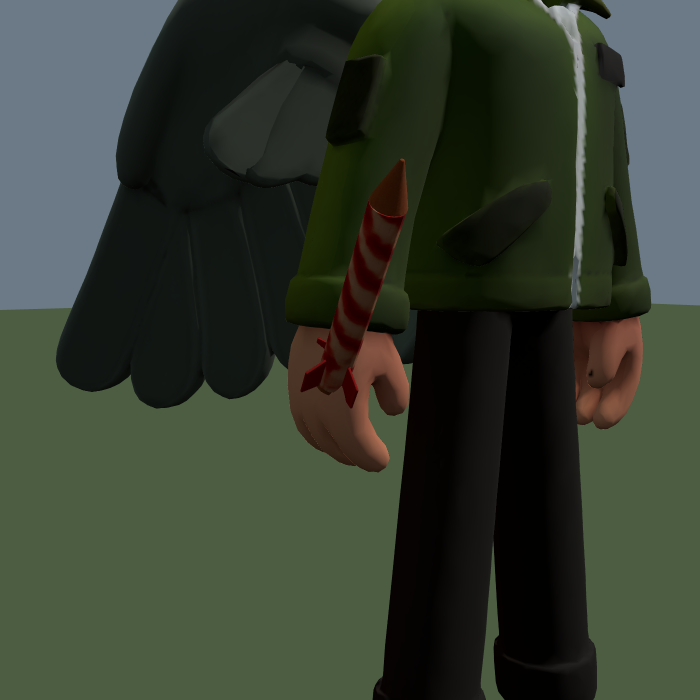
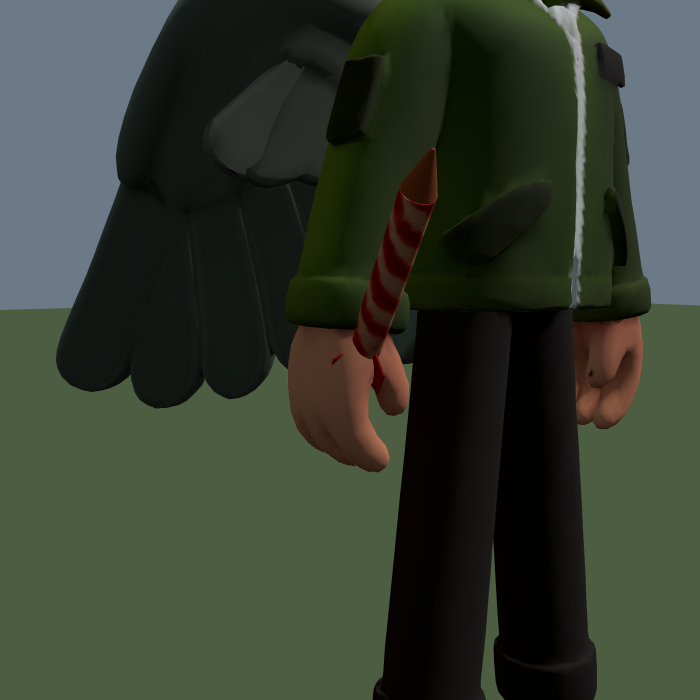
Measure the grip instead of looking at it
Four goes at this were "that reads as held" from a picture, and four were
wrong. tools/model.html measures it now: the closest any vertex of the fist
comes to the rocket's own axis, against the radius of the tube. Inside the
radius the hand is within the tube and it is gripped; outside it there is
daylight, which is what "flying" looks like.

That measurement is what found the fault. At the last setting the nearest fist
vertex was 11 mm from the axis against a 47 mm radius - the tube was buried
*inside* the fist, so every part of it that touched was hidden and the only
part you could see was the stretch sticking out past the knuckles, floating
beside a closed hand. Moving it further out made that worse, not better.

Three settings were rendered and measured together. The grip goes back onto the
axis of the hand and 30 per cent up the fist, at 9 mm: the tube comes out of
the top of the fist between the thumb and the fingers, with the hand visibly
around it.

Claude-Session: https://claude.ai/code/session_01AbPj1ecgWZX5NRERgq23EA

Changed region(s): [[0.42, 0.21, 0.63, 0.6]]

diff --git a/tools/model.html b/tools/model.html
@@ -255,7 +255,56 @@ const POSES = {
   'stand-back': { player: {}, camera: [0, 1.4, 3.6], look: [0, 1.0, 0] },
 };
 
-window.__fist = () => ({ fist: avatar.scanFist ?? null, scale: avatar.rocket?.scale.x ?? null });
+/*
+  Does the firework actually touch the hand?
+
+  Looking at a picture and deciding "that reads as held" has now been wrong
+  four times in a row. This measures it: the closest any vertex of the fist
+  comes to the rocket's own axis, against the radius of the tube. Less than the
+  radius and the hand is inside the tube - it is gripped. More, and there is
+  daylight between them, which is what "flying" looks like.
+*/
+window.__grip = () => {
+  const skin = avatar.scanSkins?.[0];
+  if (!skin || !avatar.rocket) return null;
+  const arm = avatar.scanBones?.armR;
+  const armIndex = (avatar.scanBoneList ?? []).indexOf(arm);
+  const geo = skin.geometry;
+  const idx = geo.getAttribute('skinIndex');
+  const wt = geo.getAttribute('skinWeight');
+  const held = [];
+  for (let v = 0; v < idx.count; v += 1) {
+    for (let k = 0; k < 4; k += 1) {
+      if (idx.getComponent(v, k) !== armIndex) continue;
+      if (wt.getComponent(v, k) < 0.7) continue;
+      held.push(v);
+      break;
+    }
+  }
+  if (!held.length || armIndex < 0) return { held: held.length, armIndex };
+  const world = new THREE.Vector3();
+  const points = held.map((v) => {
+    skin.getVertexPosition(v, world);
+    return skin.localToWorld(world.clone());
+  });
+  points.sort((a, b) => a.y - b.y);
+  const fist = points.slice(0, Math.max(10, Math.round(points.length * 0.33)));
+  const foot = avatar.rocket.getWorldPosition(new THREE.Vector3());
+  const tip = avatar.rocket.localToWorld(new THREE.Vector3(0, 1, 0)).sub(foot).normalize();
+  let nearest = Infinity;
+  for (const p of fist) {
+    const along = Math.max(0, Math.min(0.4, p.clone().sub(foot).dot(tip)));
+    const on = foot.clone().addScaledVector(tip, along);
+    nearest = Math.min(nearest, p.distanceTo(on));
+  }
+  return {
+    fist: avatar.scanFist, scale: avatar.rocket.scale.x,
+    radius: 0.026 * avatar.rocket.scale.x,
+    nearest, gripped: nearest < 0.026 * avatar.rocket.scale.x,
+  };
+};
+
+window.__fist = () => window.__grip();
 
 window.__pose = (name) => {
   const spec = POSES[name];

diff --git a/src/player/avatar.js b/src/player/avatar.js
@@ -25,14 +25,14 @@ const BUILT_FIST = 0.052;
  * fingertips to wrist. A closed hand holds a stick through the ring its curled
  * fingers make, which is above the middle of the fist.
  */
-const GRIP_RISE = 0.20;
+const GRIP_RISE = 0.30;
 /**
  * And how much wider than the fist the tube is drawn, so the fingers close
  * round something rather than beside it.
  */
 const GRIP_FILL = 1.0;
 /** How far out of the fist it sits, as a share of the fist's width. */
-const GRIP_OUT = 0.3;
+const GRIP_OUT = 0.0;
 /** White, for lightening the slot colour before it tints a photograph. */
 const WHITE_TINT = new THREE.Color(0xffffff);
 /** Scratch, so measuring the scan's fist allocates nothing. */
